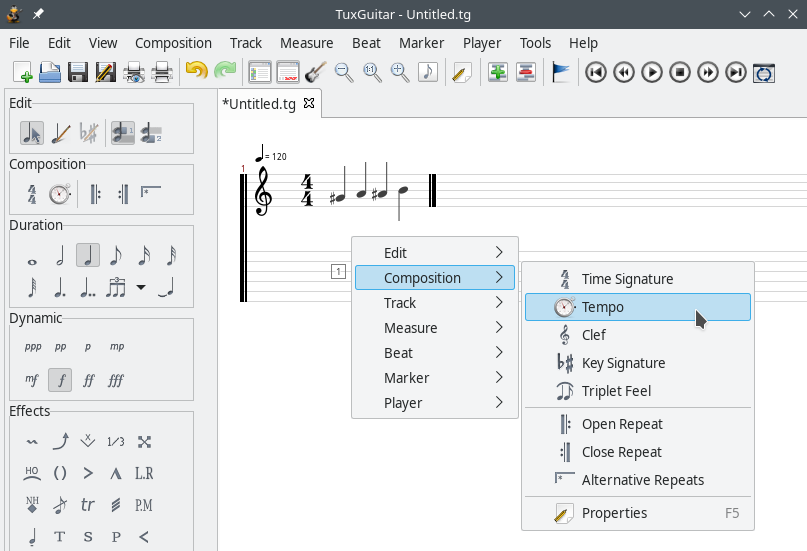
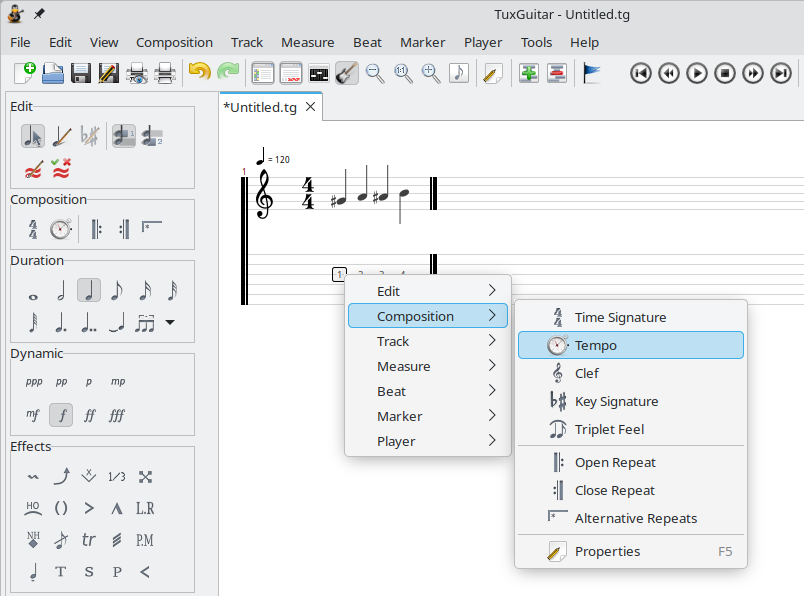
update help

Changed region(s): [[0.0, 0.0, 1.0, 1.0], [0.2799, 0.2468, 1.0, 0.9873]]

diff --git a/desktop/TuxGuitar/share/help/editing_track.html b/desktop/TuxGuitar/share/help/editing_track.html
@@ -93,6 +93,11 @@
     <p>You can also put some notes into the song by inserting a chord. Chord’s duration and dynamics will be those currently selected.</p>
     <img src="images/insert_named_chord.png" />
     <p>You can insert a chord defined earlier (as on the picture above) or you can use the <strong><a href="edit_chord.html">Chord Editor</a></strong> to generate a new chord (and even define a name for it for later use).</p>
+    <h2 id="free_edition_mode">Free edition mode</h2>
+    <p>By default TuxGuitar makes sure all measures are correct: the sum of notes' duration's in one measure is exactly the duration of the measure. This is pretty convenient when creating a new tablature, however it can make the edition of an existing tablature tedious in some cases. You can bypass this constraint with menu <strong>Edit → Free edition mode</strong> or the associated button in edit toolbar.</p>
+    <p><strong>Warning</strong>: only activate this mode if you have a correct knowledge of music theory. Free edition mode lets you do pretty much everything with notes duration. And if it's very easy to create invalid measures it may be tricky to restore a valid state. Invalid measures will appear with red lines.</p>
+    <p>Menu <strong>Edit → Show measure errors</strong> can help you locate invalid measures in a song and identify invalid voice(s). In the dialog, "<strong>Fix</strong>" button can restore a measure in a valid state, by adapting the end of the measure. Be prepared to lose some notes when using this feature</p>
+    <img src="images/free_edition_mode.png" />
     <h2 id="after_putting_the_notes">After putting the notes</h2>
     <p>After writing the things you wanted, you will probably want to hear what’s done. After checking you will probably want to change something - listening and correction makes it perfect.</p>
     <h3 id="effects">Effects</h3>
